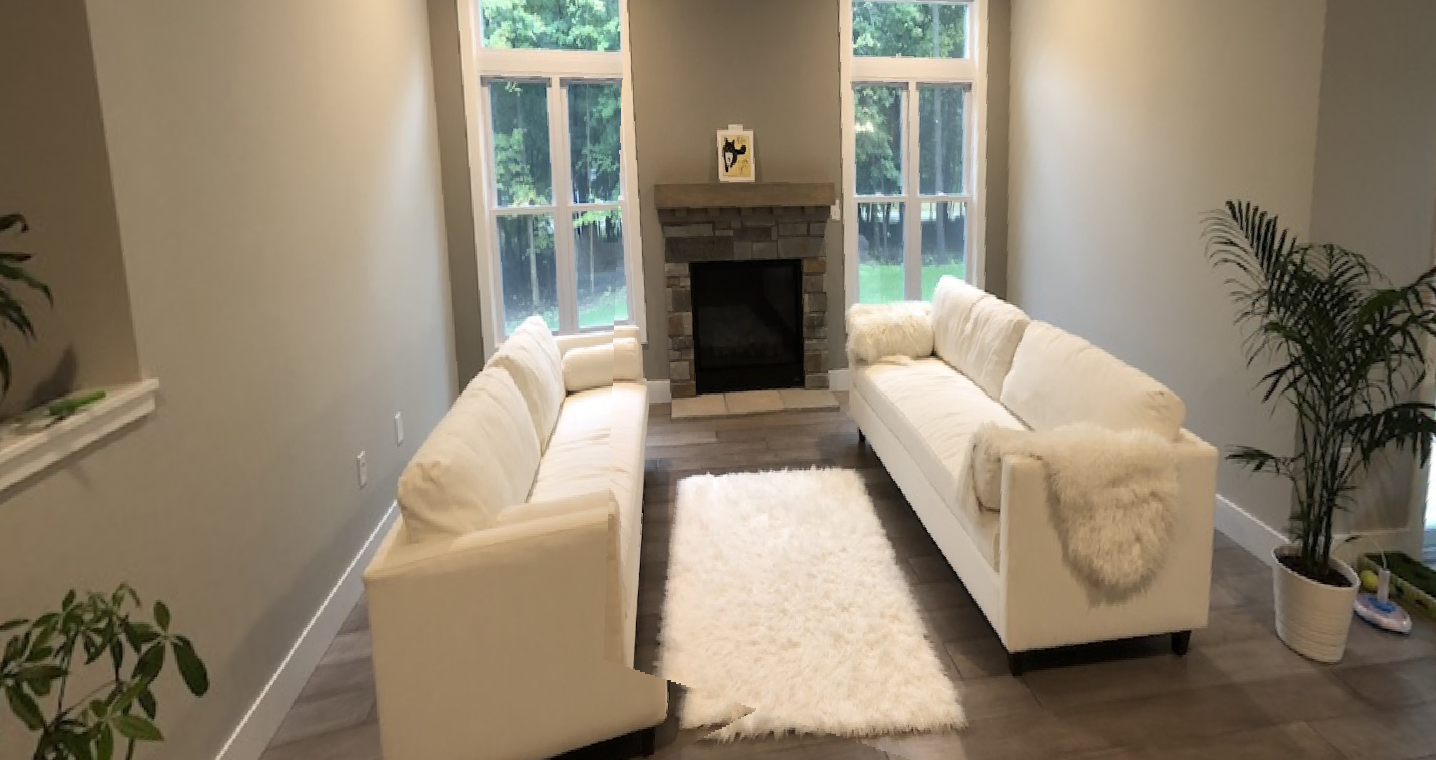
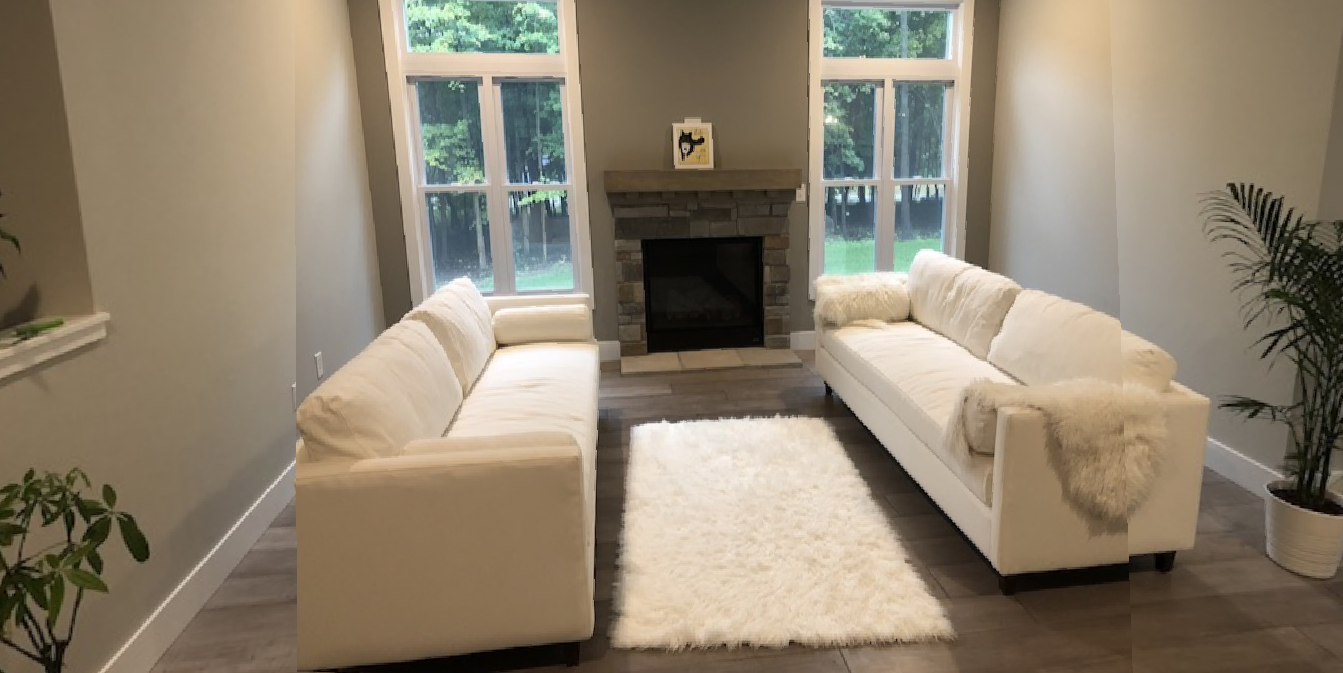
task 4 implemented

diff --git a/src/imageStitching_3images_reordered.m b/src/imageStitching_3images_reordered.m
@@ -7,8 +7,7 @@ clear all
 close all
 
 % choose the folder name
-%folder_name = 'nd';
-folder_name = 'room_vertical';
+folder_name = 'library';
 
 % Read images you want to stitch
 im_left = imread(sprintf('data/%s/1.jpg', folder_name));
@@ -90,7 +89,6 @@ tforms(3) = estimateGeometricTransform(...
 % *** TASK 3: think if this correction is still needed
 
 
-
 % Compute the output limits for each transform
 imageSize = size(im_left);     % assume that the size of all images is the same
 for i = 1:numel(tforms)
@@ -145,12 +143,13 @@ mask_right = imwarp(true(size(im_right,1),size(im_right,2)), tforms(3), 'OutputV
 % Overlay the warped images onto the panorama
 panorama = step(blender, panorama, warped_im_middle, mask_middle);
 panorama = step(blender, panorama, warped_im_left, mask_left);
-% panorama = step(blender, panorama, warped_im_right, mask_middle);
 
 % *** TASK 2: finally add your warped right image (with mask) to your
 % panorama here:
 
 panorama = step(blender, panorama, warped_im_right, mask_right);
+
+% panorama = step(blender, panorama, warped_im_middle, mask_middle);
 
 % And show the effects:
 figure

diff --git a/README.md b/README.md
@@ -68,5 +68,14 @@ And the inverse image warping:
 
 ### Task 4
 
+1. Open the file named ```imageStitching_3images_reordered.m``` in ```/src``` folder using MATLAB.
+2. You can also change the ```folder_name``` in the beginning of the script to use your own images. The folder should contain three images with the names ```1.jpg```, ```2.jpg```, and ```3.jpg```.
+3. Run the script. It will display the result of the image stitching. The result will be saved in ```/output``` folder with the name ```panorama_3images_{folder_name}_reordered.png```.
 
+Here is the result of the image stitching for 3 images using different images:
 
+![alt text](output/panorama_3images_library_reordered.png)
+
+And the inverse image warping:
+
+![alt text](output/panorama_3images_library_cropped_inverse_warping.png)
